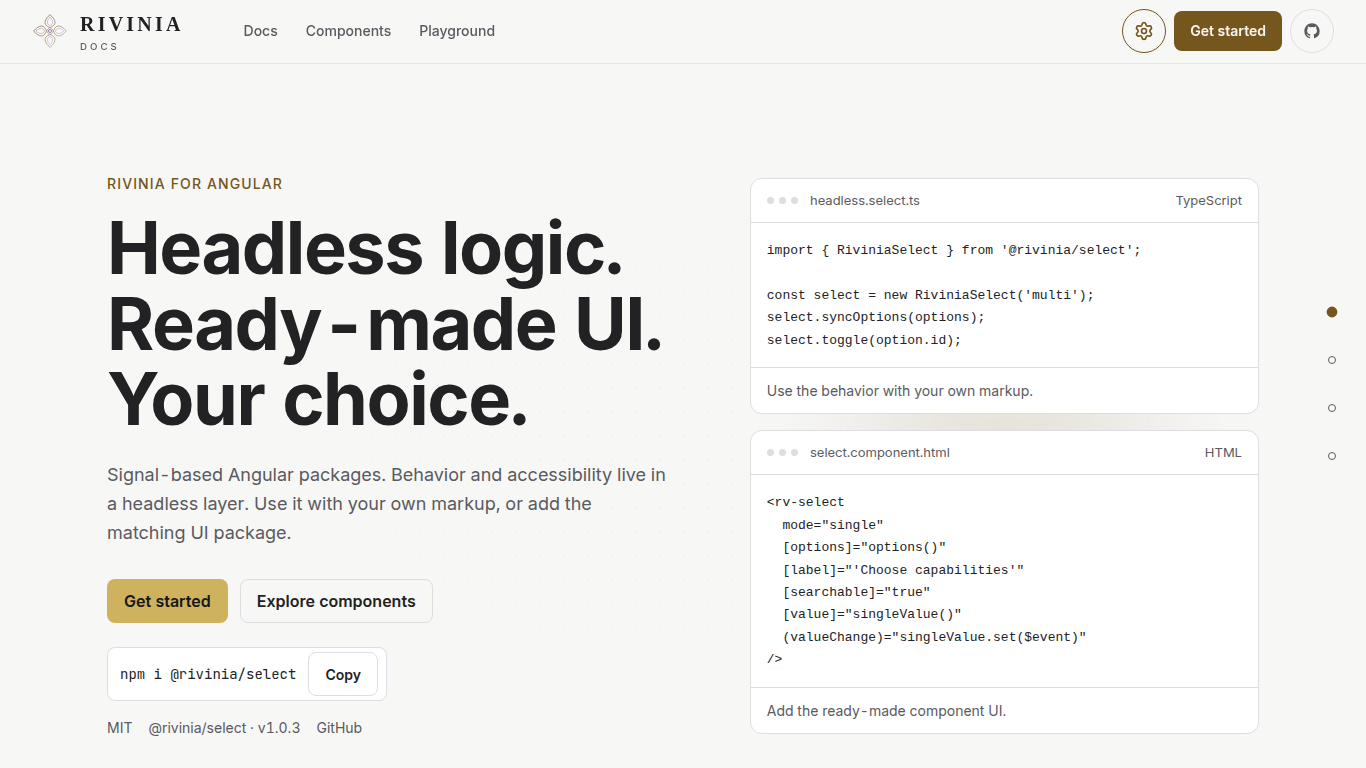
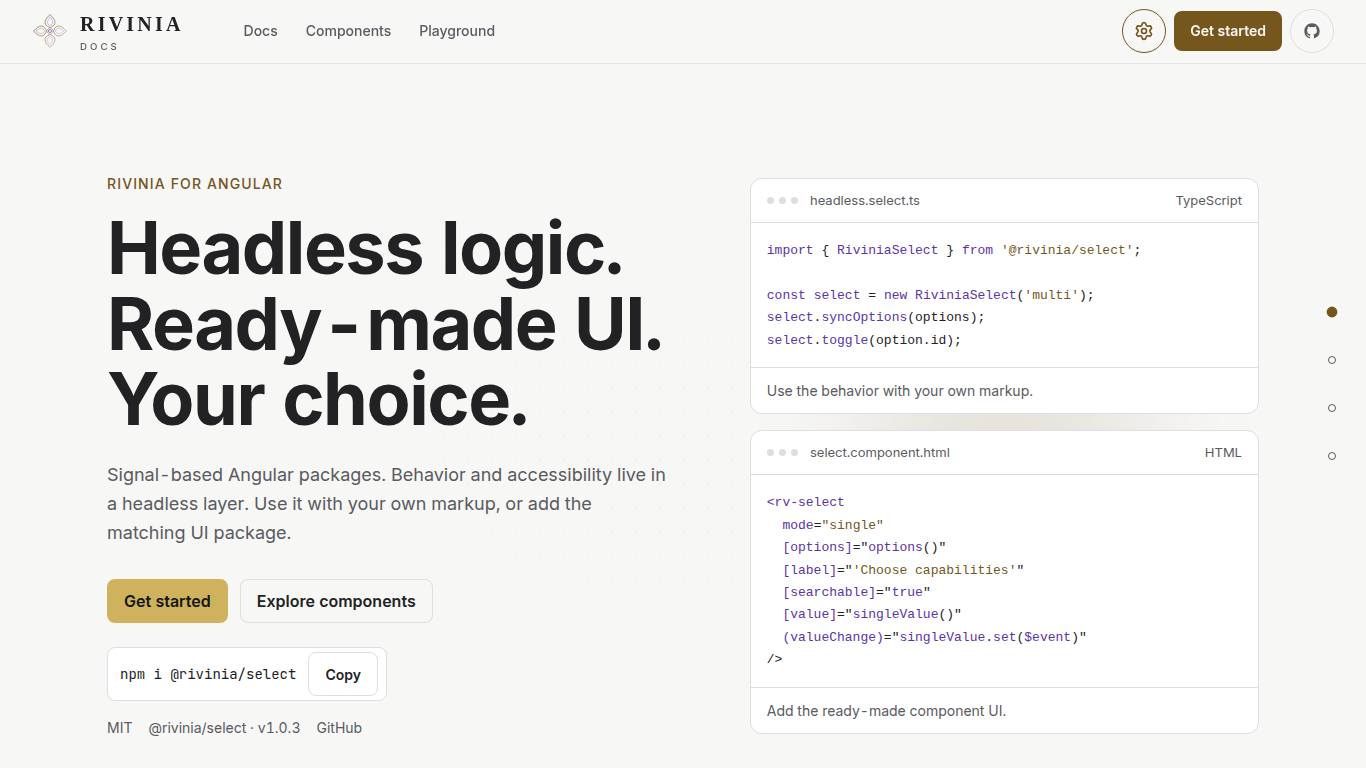
style(home): syntax highlight hero code

diff --git a/src/app/pages/home/home-page.component.html b/src/app/pages/home/home-page.component.html
@@ -39,7 +39,9 @@
             <span>headless.select.ts</span>
             <span>TypeScript</span>
           </header>
-          <pre dir="ltr"><code>{{ headlessSnippet }}</code></pre>
+          <pre
+            dir="ltr"
+          ><code>@for (token of headlessTokens; track $index) {<span [class]="'syntax-' + token.kind">{{ token.text }}</span>}</code></pre>
           <p>{{ i18n.translate('home.hero.headlessLabel') }}</p>
         </article>
 
@@ -49,7 +51,9 @@
             <span>select.component.html</span>
             <span>HTML</span>
           </header>
-          <pre dir="ltr"><code>{{ uiSnippet }}</code></pre>
+          <pre
+            dir="ltr"
+          ><code>@for (token of uiTokens; track $index) {<span [class]="'syntax-' + token.kind">{{ token.text }}</span>}</code></pre>
           <p>{{ i18n.translate('home.hero.uiLabel') }}</p>
         </article>
       </div>

diff --git a/src/app/pages/home/home-page.component.ts b/src/app/pages/home/home-page.component.ts
@@ -4,6 +4,7 @@ import { RouterLink } from '@angular/router';
 import { RiviniaI18n } from '@rivinia/i18n';
 
 import { InteractiveShowcaseComponent } from '../../features/showcase/interactive-showcase.component';
+import { highlightShowcaseCode } from '../../features/showcase/showcase-code-highlight';
 import { BrandMarkComponent } from '../../shared/components/brand-mark/brand-mark.component';
 import { PreferencesMenuComponent } from '../../layout/preferences-menu/preferences-menu.component';
 
@@ -53,6 +54,8 @@ select.toggle(option.id);`;
   [value]="singleValue()"
   (valueChange)="singleValue.set($event)"
 />`;
+  protected readonly headlessTokens = highlightShowcaseCode(this.headlessSnippet, 'typescript');
+  protected readonly uiTokens = highlightShowcaseCode(this.uiSnippet, 'html');
   protected readonly gettingStartedSteps: readonly HomeCodeStep[] = [
     {
       id: 'install',

diff --git a/src/styles.css b/src/styles.css
@@ -360,6 +360,28 @@ html:has(.home-page) {
   margin-block-start: 0;
 }
 
+.hero-code .syntax-comment {
+  color: var(--rv-muted);
+}
+
+.hero-code .syntax-keyword,
+.hero-code .syntax-pipe,
+.hero-code .syntax-type,
+.hero-code .syntax-tag,
+.hero-code .syntax-attribute,
+.hero-code .syntax-binding,
+.hero-code .syntax-property,
+.hero-code .syntax-selector,
+.hero-code .syntax-variable,
+.hero-code .syntax-function {
+  color: var(--rv-brand-violet);
+}
+
+.hero-code .syntax-string,
+.hero-code .syntax-number {
+  color: var(--rv-accent);
+}
+
 .section-rail {
   display: none;
 }

diff --git a/docs/overnight-report.md b/docs/overnight-report.md
@@ -4,14 +4,15 @@
 
 - Completed the approved homepage milestones in separate commits: `4ba4dbe` (UX contract), `943ce97` (font and layout tokens), `1d9169a` (hero), `464b0d7` (interactive showcase), `8675b76` (evidence-backed decisions), `5081caf` (setup guide and footer), and `6ad9125` (navigation, section rail, and responsive fixes).
 - Downloaded and self-hosted the Inter variable WOFF2 from Google Fonts. `@font-face` loads it for Latin text; IBM Plex Sans Arabic serves Arabic text and JetBrains Mono serves code. Browser check `document.fonts.check('16px Inter')` returned true.
+- Syntax-highlighted the first-section TypeScript and HTML snippets by reusing the showcase tokenizer, with semantic purple, gold, and muted colors that adapt to light and dark themes.
 - Reduced primary navigation to Docs, Components, and Playground. `/guides` now redirects to `/docs`.
 - Added a keyboard reachable, translated desktop section rail. It appears from 1100px and uses the shared section observer to track the active section.
 - Fixed mobile RTL horizontal overflow and fixed the showcase workspace height. Switching among the five demos measured 576px on desktop; Preview/Code measured 464px on mobile.
 - Captured 16 viewport screenshots for 1920×1080, 1440×900, 1366×768, and 390×844 across English/Arabic and light/dark, plus three full-page screenshots in `docs/screenshots/`. Chrome reported `scrollWidth` equal to the viewport at every matrix combination.
-- Measured contrast in Chrome. Light theme: body 14.80:1, muted body copy 6.39:1, primary CTA 8.77:1. Dark theme: body 16.70:1, muted body copy 9.28:1, primary CTA 9.55:1.
+- Measured contrast in Chrome. Light theme: body 14.80:1, muted body copy 6.39:1, primary CTA 8.77:1. Dark theme: body 16.70:1, muted body copy 9.28:1, primary CTA 9.55:1. Hero code tokens: keyword/tag 8.40:1 light and 6.63:1 dark; string 6.76:1 light and 9.25:1 dark.
 - Verified keyboard arrow navigation across the showcase tabs, `/guides` redirect behavior, and reduced-motion styles (`transition-duration: 0s`, `scroll-behavior: auto`).
 - `npm run verify` passed: Prettier, architecture check (zero temporary exceptions), generated-source check, production build, and Vitest (7 files, 28 tests). `git diff --check` passed.
-- Production build initial bundle: 399.82 kB raw / 99.89 kB estimated transfer. Homepage remains lazy loaded (49.31 kB raw / 10.68 kB estimated transfer).
+- Production build initial bundle: 400.24 kB raw / 100.01 kB estimated transfer. Homepage remains lazy loaded (49.67 kB raw / 10.73 kB estimated transfer).
 
 ## Blocked
 
